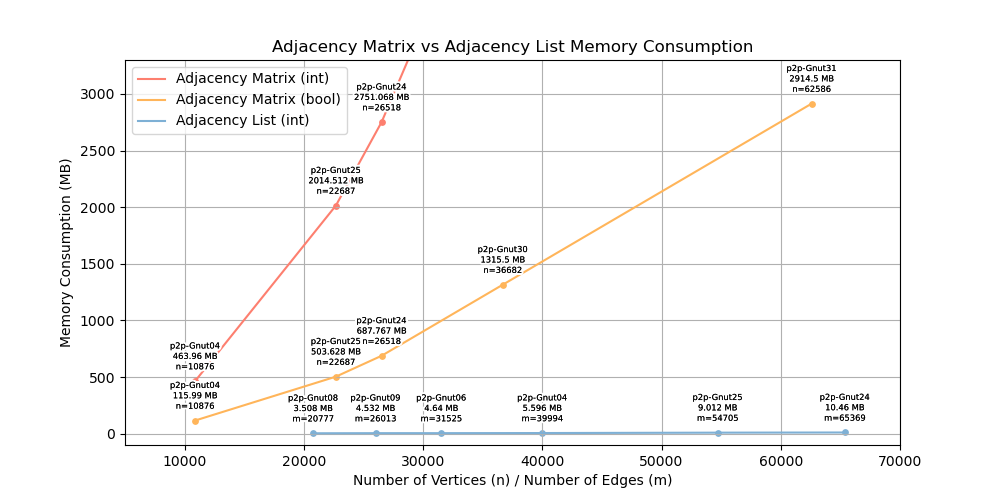
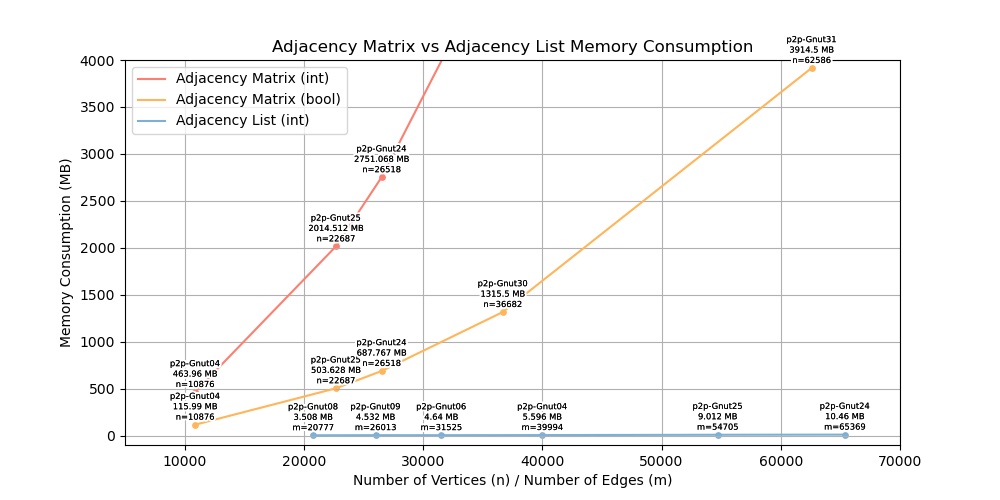
new plot : nodeIterators comparaison on the first graph set

diff --git a/experimentations/plots/NodeIterator/NodeIteratorsNincreasingSet.py b/experimentations/plots/NodeIterator/NodeIteratorsNincreasingSet.py
@@ -1,0 +1,109 @@
+import os
+import numpy as np
+import matplotlib.pyplot as plt
+from matplotlib import patheffects 
+
+names = ['email-eu-core', 'ego-facebook', 'wiki-Vote', 'ca-HepPh', 'p2p-Gnutella25', 'cit-HepTh']
+n = [1005, 4039, 7115, 12008, 22687, 27770]  #nb vertices
+m = [16064, 88234, 100762, 118489, 54705, 352285]  #nb edges
+ccavg = [0.3994, 0.6055, 0.1409, 0.6115, 0.0106, 0.3120]  #ccavg
+dg = [3.184, 1.082, 0.398, 0.164, 0.021, 0.091] #d(G)
+t = [105461, 1612010, 608389, 3358499, 806, 1478735] #nb triangle
+
+#create a new array with names, n, m and ccavg concatenated for xticks labels
+xticks = [f'{names[i]}\nn = {n[i]}\nm = {m[i]}\nccavg = {ccavg[i]}\nd(G) = {dg[i]}%\nT = {t[i]}' for i in range(len(names))]
+
+x = np.arange(len(names))
+width = 0.35
+fig, axs = plt.subplots(1, 2, figsize=(14, 6))
+
+y1 = [77.8946, 431.257, 819.724, 580.832, 42.4882, 2363.49]  # NodeIteratorAdjList
+y2 = [12.1763, 99.044, 140.642, 138.552, 10.496, 370.032]  # NodeIteratorPlusPlusAdjList
+y3 = [59.4517, 850.139, 1743.45, 2986.42, 2826.36, 20730.7]  # NodeIteratorAdjMatrix
+y4 = [38.9076, 440.334, 1053.09, 1856.15, 4218.64, 12564.2]  # NodeIteratorPlusPlusOrderedAdjMatrix
+
+y1_raw_min = [70.8455, 410.884, 795.872, 547.536, 37.9336, 2327.78]
+y1_raw_max = [104.721, 482.708, 850.717, 692.176, 54.8555, 2407.56]
+y2_raw_min = [11.0039, 90.7396, 136.634, 134.676, 9.0092, 360.072]
+y2_raw_max = [12.997, 111.691, 148.638, 146.637, 13.9597, 399.961]
+y3_raw_min = [55.8837, 823.783, 1709.43, 2920.19, 2730.66, 20305.7]
+y3_raw_max = [65.8714, 910.601, 1767.3, 3033.89, 2932.19, 21493.6]
+y4_raw_min = [35.895, 418.878, 1034.22, 1816.15, 4137.94, 12317.1]
+y4_raw_max = [43.8503, 498.7, 1092.07, 1898.92, 4298.54, 12806.8]
+
+y1_min = [y1[i] - y1_raw_min[i] for i in range(len(y1))]
+y1_max = [y1_raw_max[i] - y1[i] for i in range(len(y1))]
+y2_min = [y2[i] - y2_raw_min[i] for i in range(len(y2))]
+y2_max = [y2_raw_max[i] - y2[i] for i in range(len(y2))]
+y3_min = [y3[i] - y3_raw_min[i] for i in range(len(y3))]
+y3_max = [y3_raw_max[i] - y3[i] for i in range(len(y3))]
+y4_min = [y4[i] - y4_raw_min[i] for i in range(len(y4))]
+y4_max = [y4_raw_max[i] - y4[i] for i in range(len(y4))]
+
+y1_min = [round(y1_min[i], 2) for i in range(len(y1_min))]
+y1_max = [round(y1_max[i], 2) for i in range(len(y1_max))]
+y2_min = [round(y2_min[i], 2) for i in range(len(y2_min))]
+y2_max = [round(y2_max[i], 2) for i in range(len(y2_max))]
+y3_min = [round(y3_min[i], 2) for i in range(len(y3_min))]
+y3_max = [round(y3_max[i], 2) for i in range(len(y3_max))]
+y4_min = [round(y4_min[i], 2) for i in range(len(y4_min))]
+y4_max = [round(y4_max[i], 2) for i in range(len(y4_max))]
+
+def add_contour(text):
+    return [patheffects.withStroke(linewidth=3, foreground='white'), patheffects.Normal()]
+
+# Plotting y1 vs y2 on the left
+bars1 = axs[0].bar(x - width/2, y1, width, label='NodeIterator', color='#ff5733')
+bars2 = axs[0].bar(x + width/2, y2, width, label='NodeIteratorPlusPlus', color='#33ffbd')
+axs[0].errorbar(x - width/2, y1, yerr=[y1_min, y1_max], fmt='none', capsize=5, color='black', alpha=0.5)
+axs[0].errorbar(x + width/2, y2, yerr=[y2_min, y2_max], fmt='none', capsize=5, color='black', alpha=0.5)
+axs[0].set_xticks(x)
+axs[0].set_xticklabels(xticks)
+for tick in axs[0].get_xticklabels():
+    tick.set_fontsize(8)
+axs[0].set_title('Adjacency List')
+axs[0].legend()
+axs[0].grid(True)
+axs[0].set_ylim(0, 2600)
+
+# Adding number of vertices labels for the bars in the left plot
+for bar1, bar2, i in zip(bars1, bars2, x):
+    height1 = bar1.get_height()
+    height2 = bar2.get_height()
+    text1 = axs[0].text(bar1.get_x() + bar1.get_width()/2, height1 + y1_max[i] + 10, f'+{y1_max[i]}\n{y1[i]}\n-{y1_min[i]}', ha='center', va='bottom', fontsize=6)
+    text1.set_path_effects(add_contour(text1))
+    text2 = axs[0].text(bar2.get_x() + bar2.get_width()/2, height2 + y2_max[i] + 10, f'+{y2_max[i]}\n{y2[i]}\n-{y2_min[i]}', ha='center', va='bottom', fontsize=6)
+    text2.set_path_effects(add_contour(text2))
+
+# Plotting y3 vs y4 on the right
+bars3 = axs[1].bar(x - width/2, y3, width, label='NodeIterator', color='#ff338a')
+bars4 = axs[1].bar(x + width/2, y4, width, label='NodeIteratorPlusPlus', color='#3366ff')
+axs[1].errorbar(x - width/2, y3, yerr=[y3_min, y3_max], fmt='none', capsize=5, color='black', alpha=0.5)
+axs[1].errorbar(x + width/2, y4, yerr=[y4_min, y4_max], fmt='none', capsize=5, color='black', alpha=0.5)
+axs[1].set_xticks(x)
+axs[1].set_xticklabels(xticks)
+#set xtick labels smaller
+for tick in axs[1].get_xticklabels():
+    tick.set_fontsize(8)
+axs[1].set_title('Adjacency Matrix')
+axs[1].legend()
+axs[1].grid(True)
+axs[1].set_ylim(0, 23400)
+
+for bar3, bar4, i in zip(bars3, bars4, x):
+    height3 = bar3.get_height()
+    height4 = bar4.get_height()
+    text3 = axs[1].text(bar3.get_x() + bar4.get_width()/2, height3 + y3_max[i] + 100, f'+{y3_max[i]}\n{y3[i]}\n-{y3_min[i]}', ha='center', va='bottom', fontsize=6)
+    text3.set_path_effects(add_contour(text3))
+    text4 = axs[1].text(bar4.get_x() + bar3.get_width()/2, height4 + y4_max[i] + 100, f'+{y4_max[i]}\n{y4[i]}\n-{y4_min[i]}', ha='center', va='bottom', fontsize=6)
+    text4.set_path_effects(add_contour(text4))
+
+axs[0].set_ylabel('Time (ms)')
+
+
+plt.tight_layout()
+
+script_dir = os.path.dirname(os.path.abspath(__file__))
+plt.savefig(os.path.join(script_dir, 'NodeIteratosNincreasingSet.png'))
+
+plt.show()

diff --git a/experimentations/plots/NodeIterator/NodeIteratorsMincreasingSet.py b/experimentations/plots/NodeIterator/NodeIteratorsMincreasingSet.py
@@ -1,0 +1,31 @@
+y1 = [77.8946, 431.257, 819.724, 580.832, 42.4882, 2363.49]  # NodeIteratorAdjList
+y2 = [12.1763, 99.044, 140.642, 138.552, 10.496, 370.032]  # NodeIteratorPlusPlusAdjList
+y3 = [59.4517, 850.139, 1743.45, 2986.42, 2826.36, 20730.7]  # NodeIteratorAdjMatrix
+y4 = [38.9076, 440.334, 1053.09, 1856.15, 4218.64, 12564.2]  # NodeIteratorPlusPlusOrderedAdjMatrix
+
+y1_raw_min = [70.8455, 410.884, 795.872, 547.536, 37.9336, 2327.78]
+y1_raw_max = [104.721, 482.708, 850.717, 692.176, 54.8555, 2407.56]
+y2_raw_min = [11.0039, 90.7396, 136.634, 134.676, 9.0092, 360.072]
+y2_raw_max = [12.997, 111.691, 148.638, 146.637, 13.9597, 399.961]
+y3_raw_min = [55.8837, 823.783, 1709.43, 2920.19, 2730.66, 20305.7]
+y3_raw_max = [65.8714, 910.601, 1767.3, 3033.89, 2932.19, 21493.6]
+y4_raw_min = [35.895, 418.878, 1034.22, 1816.15, 4137.94, 12317.1]
+y4_raw_max = [43.8503, 498.7, 1092.07, 1898.92, 4298.54, 12806.8]
+
+y1_min = [y1[i] - y1_raw_min[i] for i in range(len(y1))]
+y1_max = [y1_raw_max[i] - y1[i] for i in range(len(y1))]
+y2_min = [y2[i] - y2_raw_min[i] for i in range(len(y2))]
+y2_max = [y2_raw_max[i] - y2[i] for i in range(len(y2))]
+y3_min = [y3[i] - y3_raw_min[i] for i in range(len(y3))]
+y3_max = [y3_raw_max[i] - y3[i] for i in range(len(y3))]
+y4_min = [y4[i] - y4_raw_min[i] for i in range(len(y4))]
+y4_max = [y4_raw_max[i] - y4[i] for i in range(len(y4))]
+
+y1_min = [round(y1_min[i], 2) for i in range(len(y1_min))]
+y1_max = [round(y1_max[i], 2) for i in range(len(y1_max))]
+y2_min = [round(y2_min[i], 2) for i in range(len(y2_min))]
+y2_max = [round(y2_max[i], 2) for i in range(len(y2_max))]
+y3_min = [round(y3_min[i], 2) for i in range(len(y3_min))]
+y3_max = [round(y3_max[i], 2) for i in range(len(y3_max))]
+y4_min = [round(y4_min[i], 2) for i in range(len(y4_min))]
+y4_max = [round(y4_max[i], 2) for i in range(len(y4_max))]

diff --git a/experimentations/plots/NodeIterator/ListVsMatrixMemory.py b/experimentations/plots/NodeIterator/ListVsMatrixMemory.py
@@ -4,8 +4,8 @@ from matplotlib import patheffects
 
 names1 = ['p2p-Gnut04', 'p2p-Gnut25', 'p2p-Gnut24', 'p2p-Gnut30', 'p2p-Gnut31']
 num_vertices = [10876, 22687, 26518, 36682, 62586]
-adjMatrix = [463.960, 2014.512, 2751.068, 5262.000, 11658.000]
-adjMatrixBool = [463.960/4, 2014.512/4, 2751.068/4, 5262.000/4, 11658.000/4]
+adjMatrix = [463.960, 2014.512, 2751.068, 5262.000, 15658.000]
+adjMatrixBool = [463.960/4, 2014.512/4, 2751.068/4, 5262.000/4, 15658.000/4]
 names2 = ['p2p-Gnut08', 'p2p-Gnut09', 'p2p-Gnut06', 'p2p-Gnut04', 'p2p-Gnut25', 'p2p-Gnut24']
 num_edges = [20777, 26013, 31525, 39994, 54705, 65369]
 adjList = [3.508, 4.532, 4.640, 5.596, 9.012, 10.460 ] 
@@ -42,7 +42,7 @@ plt.xlabel('Number of Vertices (n) / Number of Edges (m)')
 plt.ylabel('Memory Consumption (MB)')
 
 plt.xlim(5000, 70000)
-plt.ylim(-100, 3300)
+plt.ylim(-100, 4000)
 
 plt.legend(loc='upper left')
 
